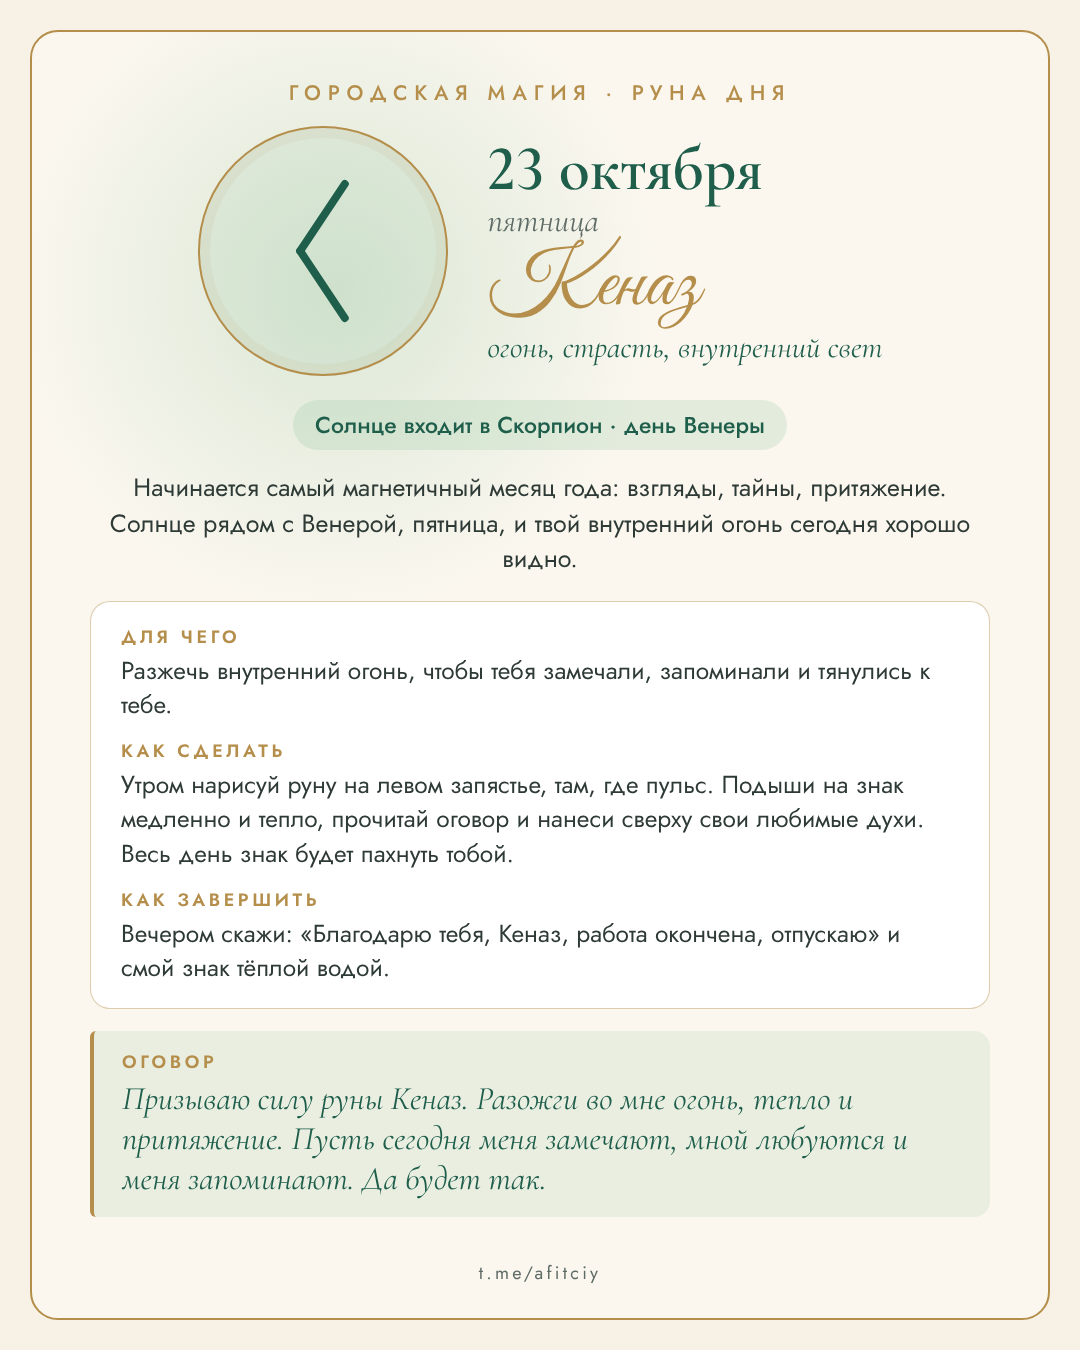
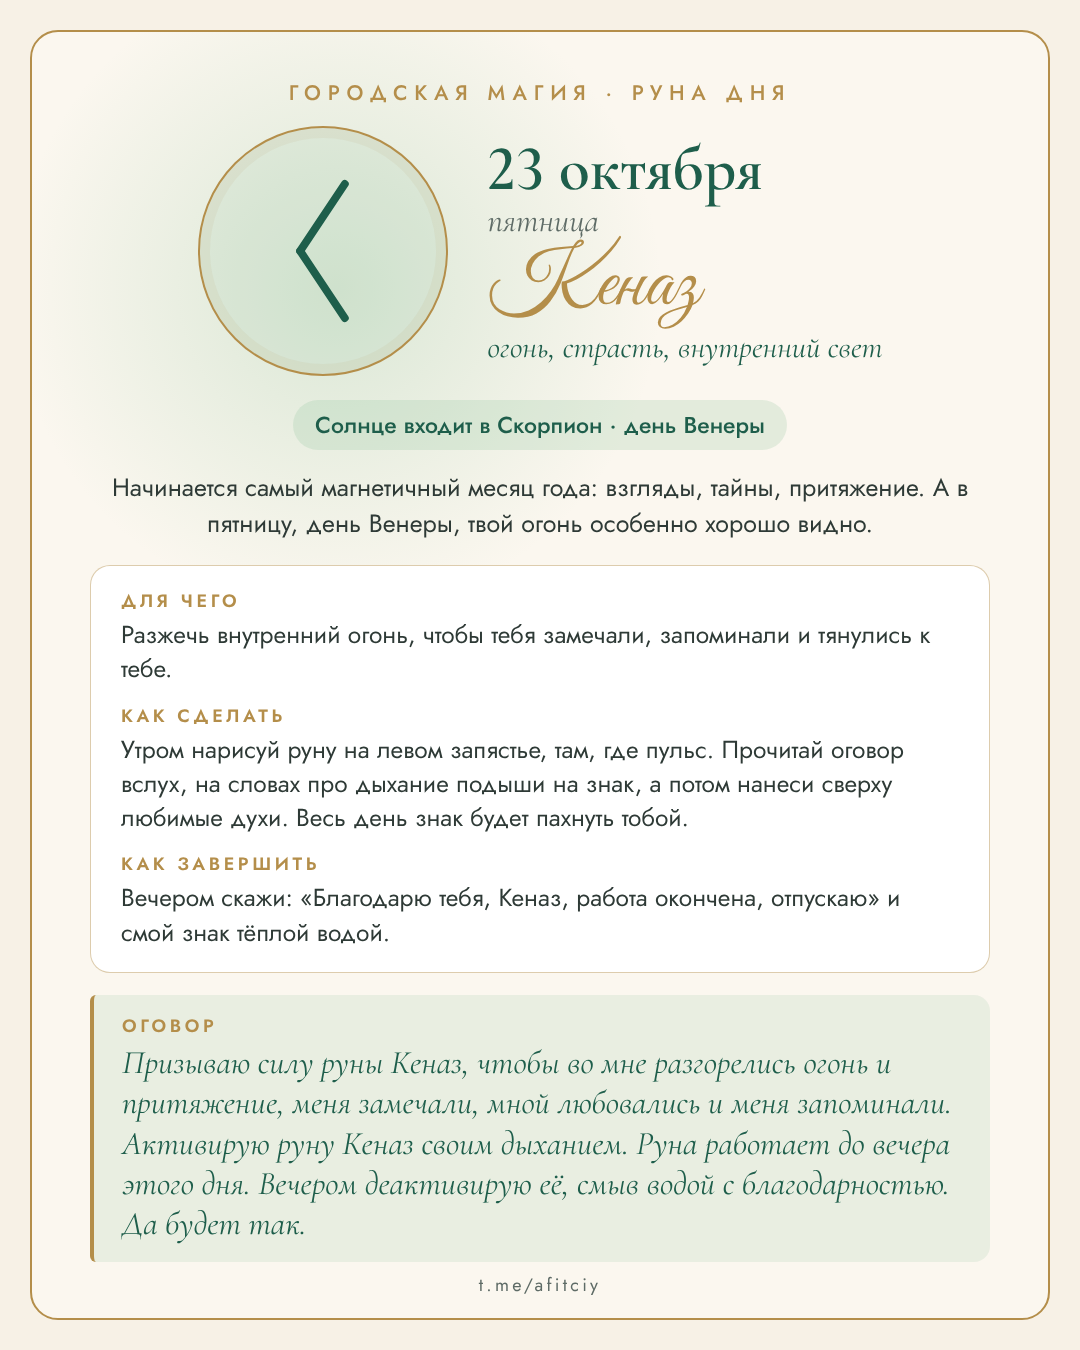
Знак дня 19–25 октября: полный рунический оговор (призыв, активация, срок, деактивация)
Claude-Session: https://claude.ai/code/session_01AaHL27jWs85Q3tcxhpnW6r

diff --git a/daily/WEEKLY.md b/daily/WEEKLY.md
@@ -31,7 +31,13 @@ fehu, uruz, ansuz, kenaz, gebo, wunjo, jera, sowilo, teiwaz, berkana, laguz, ing
   Левая рука принимает (притянуть к себе), правая отдаёт и действует. Ещё: запястье, над стаканом воды (потом выпить),
   листочек в кошельке, над дверью подсоленной водой. Не рисовать на купюрах.
 - **Активация дыханием обязательна**: нарисовала, подыши на знак тёплым дыханием (листочек, воду), и только потом оговор.
-- **Оговор обязателен**, руна без оговора не работает. Формула: «Призываю силу руны …. [для чего, конкретно]. Да будет так.»
+- **Оговор обязателен и составляется по правилам** (Елена повторяла это трижды). В нём всегда пять частей:
+  1) призыв и цель: «Призываю силу руны …, чтобы [конкретно для чего]»;
+  2) активация: «Активирую руну … своим дыханием» (на теле, над водой) или «… огнём» (на листочке, провести над свечой);
+  3) срок: «Руна работает до вечера этого дня» / «сутки, пока лежит в кошельке» / «до исполнения …»;
+  4) деактивация: «Вечером деактивирую её, смыв водой с благодарностью» (на листочке: «сжигая с благодарностью»);
+  5) «Да будет так.»
+  В «Как сделать» писать, на каких словах дышать на знак или проводить листочек над огнём.
 - **Как завершить**: деактивация с благодарностью и отпусканием. На теле вечером сказать «Благодарю тебя, …, работа окончена, отпускаю» и смыть водой.
   Листочек сжечь, вода выпивается до дна, знак на двери протереть через неделю. Всегда с благодарностью.
 
